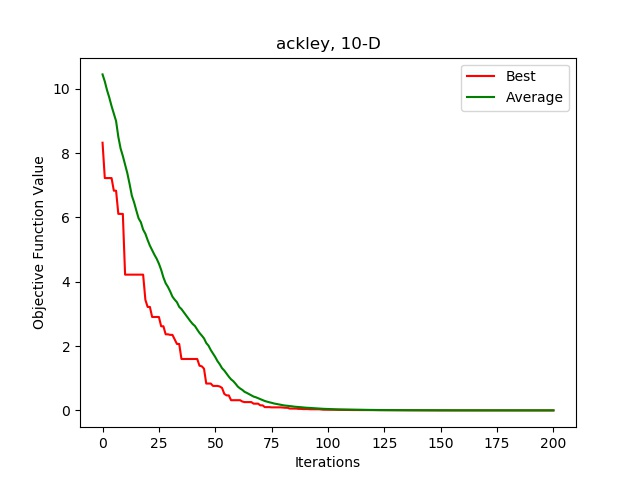
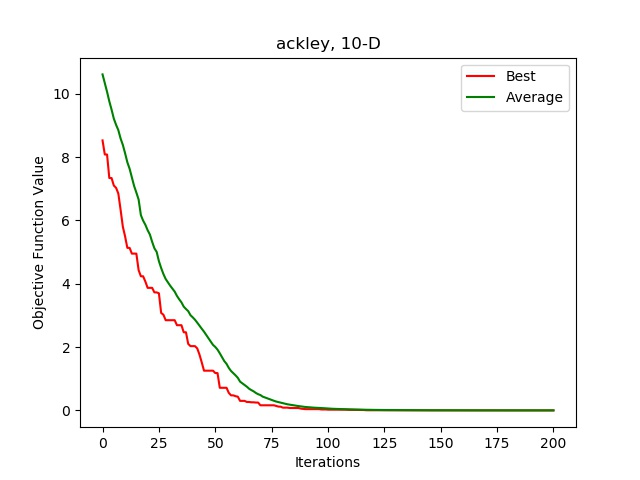
Enviando dados para fucao de execucao

diff --git a/interface_tk.py b/interface_tk.py
@@ -206,7 +206,7 @@ class Toplevel1:
         self.Button1.configure(activebackground="#f9f9f9")
         self.Button1.configure(text='''Limpar Dados''')
 
-        self.Button3 = Button(top,command=self.atualizar)
+        self.Button3 = Button(top,command=self.executar)
         self.Button3.place(relx=0.171, rely=0.506, height=30, width=85)
         self.Button3.configure(activebackground="#f9f9f9")
         self.Button3.configure(text='''Executar''')
@@ -258,15 +258,16 @@ class Toplevel1:
         self.next_grafico.configure(activebackground="#f9f9f9")
         self.next_grafico.configure(text='''Next >''')
 
-    def atualizar(self):
+        self.Canvas1.create_image(0,0, anchor=NW)    
+    def executar(self):
         dados = {}
         dados['Numero de Iteracoes']=[self.ent_num_iter.get(),'int']
         dados['Dim'] = [self.ent_dim.get(),'int']
         dados['CR']=[self.ent_CR.get(),'float']
         dados['F']=[self.ent_F.get(),'float']
-        dados['Polupation Size']=[self.ent_pop_size.get(),'int']
-        dados['Upper Limit']=[self.ent_upper_lim.get(),'int']
-        dados['Lower Limit']=[self.ent_lower_lim.get(),'int']
+        dados['Population Size']=[self.ent_pop_size.get(),'int']
+        dados['Upper Limit']=[self.ent_upper_lim.get(),'float']
+        dados['Lower Limit']=[self.ent_lower_lim.get(),'float']
 
         error = False
         for i in dados.keys():
@@ -286,7 +287,9 @@ class Toplevel1:
 
             for i in range(number_of_runs):
                 start = datetime.datetime.now()
-                de = DifferentialEvolution(num_iterations=200, dim=10, CR=0.4, F=0.48, population_size=75, print_status=False, func='ackley',upper_limit=5.12,lower_limit=-5.12,printar=self.printar)
+                de = DifferentialEvolution(num_iterations=dados['Numero de Iteracoes'][0], dim=dados['Dim'][0],
+                         CR=dados['CR'][0], F=dados['F'][0], population_size=dados['Population Size'][0], print_status=False, func='ackley',
+                         upper_limit=dados['Upper Limit'][0],lower_limit=dados['Lower Limit'][0],printar=self.printar)
                 val += de.simulate()
                 if print_time:
                     self.printar('')
@@ -299,9 +302,6 @@ class Toplevel1:
             self.printar('')
             self.printar ("Final average of all runs: {}".format( val / number_of_runs))
             self.grafico_interface(0)
-
-        
-        return 1
 
     def grafico_interface(self, indice):
             if indice == None:
@@ -318,7 +318,7 @@ class Toplevel1:
                 self.next_grafico['state']  = NORMAL
 
             img = ImageTk.PhotoImage(self.img[indice])     
-            self.Canvas1.create_image(0,0, anchor=NW, image=img)    
+            self.Canvas1.create_image(0,0, anchor=NW, image=img)  
             self.Canvas1.image = img
             self.grafico = indice
     def printar(self,texto):
